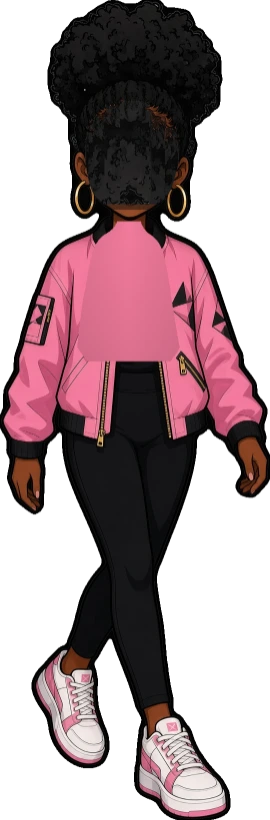
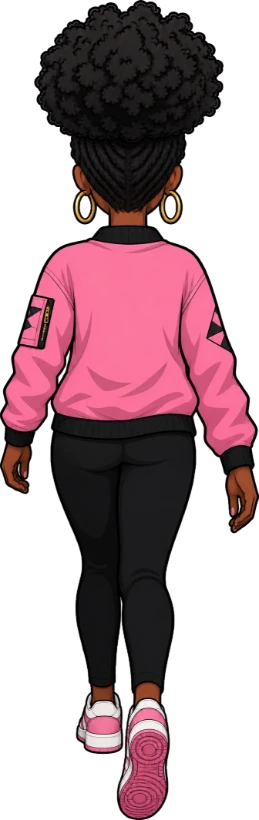
Drawn back views for the street people; Veli and the brothers serve in their windows
- The eight pedestrians have real back views, standing and in stride, in place of the
  ones that had been made from their front drawings. Kart drivers, the players at the
  court and everyone walking away use them.
- Veli is in the window at Veli's Wings and the two brothers at Wingz N Things, each with
  an idle and a serving drawing from in front and behind. They hold an order out when
  someone is waiting at the window and when Benji buys; the brothers take turns.
- The crews stand on the truck floor, so the food they hold out clears the counter.
- Each sponsor truck's menu opens with a picture of the truck at work, and the trucks are
  painted to match it (cream and gold, black and red).
- Smoke test: Veli serves on an order; both crews are in their windows.

Claude-Session: https://claude.ai/code/session_011XGCotqBWtNhVLXTttk4cE

diff --git a/src/game-v2/actors/crowd.ts b/src/game-v2/actors/crowd.ts
@@ -49,6 +49,11 @@ type Member = {
   posted: boolean;
   order: boolean;
   at: number;
+  /** Behind a counter: seconds left holding an order out, seconds until the next one, and who they share the window with. */
+  serving: number;
+  rest: number;
+  team: string;
+  served: number;
 };
 
 const STAY: Record<Act, [number, number]> = {
@@ -103,6 +108,7 @@ export function stepClear(p: { x: number; z: number }, car: Moving, dt: number) 
 export class Troupe {
   private members: Member[] = [];
   private rand: () => number;
+  private clock = 0;
 
   constructor(
     private group: THREE.Group,
@@ -138,8 +144,29 @@ export class Troupe {
   }
 
   /** Someone who stays where they are: a cook, a clerk, a kid on a trampoline. */
-  post(art: CardArt, height: number, stop: Stop) {
-    return this.add(art, height, [stop], stop, true, false);
+  post(art: CardArt, height: number, stop: Stop, team = "") {
+    const card = this.add(art, height, [stop], stop, true, false);
+    this.members[this.members.length - 1]!.team = team;
+    return card;
+  }
+
+  /** One of the crew holds an order out. The ones who share a window take turns. */
+  private serve(m: Member, seconds: number) {
+    m.serving = seconds;
+    m.rest = 5 + this.rand() * 5;
+    m.served = this.clock;
+    if (m.team) for (const o of this.members) if (o !== m && o.team === m.team) o.rest = Math.max(o.rest, seconds + 1.5 + this.rand() * 2);
+  }
+
+  /** Benji ordered at (x, z): whoever at that window served longest ago hands it over. */
+  serveAt(x: number, z: number, seconds = 3.4) {
+    let pick: Member | null = null;
+    for (const m of this.members) {
+      if (m.stop.act !== "serve" || Math.hypot(m.x - x, m.z - z) > 7) continue;
+      if (!pick || m.served < pick.served) pick = m;
+    }
+    if (pick) this.serve(pick, seconds);
+    return !!pick;
   }
 
   private add(art: CardArt, height: number, stops: Stop[], stop: Stop, posted: boolean, order: boolean) {
@@ -148,7 +175,7 @@ export class Troupe {
     stop.taken = true;
     const seed = this.rand() * 10;
     const stay = stop.stay ?? STAY[stop.act];
-    const m: Member = { card, stops, stop, going: false, t: stay[0] + this.rand() * (stay[1] - stay[0]), x: stop.x, z: stop.z, pace: 1.25 + this.rand() * 0.5, seed, hop: 0, checkT: 0, checkX: stop.x, checkZ: stop.z, posted, order, at: Math.max(0, stops.indexOf(stop)) };
+    const m: Member = { card, stops, stop, going: false, t: stay[0] + this.rand() * (stay[1] - stay[0]), x: stop.x, z: stop.z, pace: 1.25 + this.rand() * 0.5, seed, hop: 0, checkT: 0, checkX: stop.x, checkZ: stop.z, posted, order, at: Math.max(0, stops.indexOf(stop)), serving: 0, rest: 2 + this.rand() * 4, team: "", served: -1 };
     card.heading = Math.atan2(stop.fx - stop.x, stop.fz - stop.z);
     this.members.push(m);
     return card;
@@ -187,6 +214,7 @@ export class Troupe {
    * from the camera (outdoors).
    */
   update(dt: number, camera: THREE.Vector3, tint: THREE.Color, player: { x: number; z: number } | null, time: number, beat = -1, reach = 0, car: Moving | null = null) {
+    this.clock = time;
     for (const m of this.members) {
       const c = m.card;
       // A car coming: jump clear of it, then walk back to whatever you were doing.
@@ -284,6 +312,19 @@ export class Troupe {
         else if (act === "cheer" && Math.sin(time * 0.55 + m.seed * 3) > 0.55) lift += Math.abs(Math.sin((time + m.seed) * 8)) * 0.16;
         else if (act === "dance") c.groove = beat >= 0 ? beat + m.seed * 0.05 : time + m.seed;
         if (beat >= 0 && act !== "serve" && act !== "bounce" && act !== "inside") c.groove = beat + m.seed * 0.05;
+        if (act === "serve") {
+          if (m.serving > 0) m.serving -= dt;
+          else {
+            m.rest -= dt;
+            if (m.rest <= 0) {
+              // Somebody waiting at the window gets served; with nobody there, keep an eye out.
+              const waiting = this.members.some((o) => !o.posted && !o.going && o.stop.act !== "inside" && Math.hypot(o.x - m.x, o.z - m.z) < 4.6);
+              if (waiting) this.serve(m, 2.6);
+              else m.rest = 1;
+            }
+          }
+          c.pose = m.serving > 0 ? "serve" : null;
+        }
         if (m.hop > 0) {
           m.hop = Math.max(0, m.hop - dt);
           lift += Math.abs(Math.sin((time + m.seed) * 9)) * 0.24 * Math.min(1, m.hop * 2);

diff --git a/src/game-v2/game.ts b/src/game-v2/game.ts
@@ -4,7 +4,7 @@ import { Troupe, type Act, type Stop } from "./actors/crowd";
 import { People } from "./actors/people";
 import { Traffic } from "./actors/traffic";
 import { CarModel, Driver, STREET } from "./actors/vehicle";
-import { CAST, PEDS, OUTFITS, BENJI_HEIGHT, type CastId, type OutfitId } from "./assets/cast";
+import { CAST, PEDS, OUTFITS, BENJI_HEIGHT, type CastId, type OutfitId, VENDORS } from "./assets/cast";
 import { Sound } from "./core/audio";
 import { Input, type Nav } from "./core/input";
 import type { HoopsKind, Dialogue, HudState, Live, Mode, Overlay, Place, Results, Save, Solid } from "./core/types";
@@ -480,11 +480,17 @@ export class Game {
       const wx = TRUCKS.x + offs[id] + 1.2;
       lot.push(at(wx - 1.2, TRUCKS.z - 3.5, wx, TRUCKS.z, "watch", { stay: [4, 8] }), at(wx + 1.1, TRUCKS.z - 3.8, wx, TRUCKS.z, "watch", { stay: [4, 8] }));
       // Whoever runs the truck is in the window: Veli's, the two brothers, the Catch.
-      const crew = id === "velis" ? [["local", 0]] : id === "brothers" ? [["dj", -0.7], ["baller-1", 0.7]] : [["host", 0]];
-      for (const [name, dx] of crew as [string, number][]) {
-        const v = hand(name);
-        st.post(v.art, v.height, at(wx + dx, TRUCKS.z - 1.5, wx + dx, TRUCKS.z - 8, "serve", { lift: 0.74 }));
-      }
+      // The crew stand on the truck floor, high enough that the order they hold out clears the counter.
+      const crew: [{ art: { front: string }; height: number }, number, number][] =
+        id === "velis"
+          ? [[VENDORS.veli, 0, 1.1]]
+          : id === "brothers"
+            ? [
+                [VENDORS.brotherRed, -0.78, 1.1],
+                [VENDORS.brotherBlue, 0.78, 1.1],
+              ]
+            : [[hand("host"), 0, 0.74]];
+      for (const [v, dx, floor] of crew) st.post(v.art, v.height, at(wx + dx, TRUCKS.z - 1.5, wx + dx, TRUCKS.z - 8, "serve", { lift: floor }), id);
     }
     for (const tx of [-14, -4, 6, 16]) lot.push(at(TRUCKS.x + tx - 1.75, TRUCKS.z - 9.5, TRUCKS.x + tx, TRUCKS.z - 9.5, "eat"), at(TRUCKS.x + tx + 1.75, TRUCKS.z - 9.5, TRUCKS.x + tx, TRUCKS.z - 9.5, "eat"));
     for (const [vx, vz] of [
@@ -1124,6 +1130,9 @@ export class Game {
       plate = `Blackened ${best.name}`;
     } else if (!this.spend(f.cost)) return;
     this.fedUntil = this.time + f.seconds;
+    // Whoever is in the window hands it over.
+    if (this.place === "street") this.street.serveAt(this.pos.x, this.pos.z);
+    else this.troupes[this.place]?.serveAt(this.pos.x, this.pos.z);
     if (f.respect) this.earn(0, f.respect, { quiet: true });
     this.toast(`${plate}. ${f.line}`, 4);
     this.emit("ate");

diff --git a/src/game-v2/assets/cast.ts b/src/game-v2/assets/cast.ts
@@ -85,18 +85,28 @@ export const CAST: Record<"kBlanco" | "courtOg" | "mamaDee" | "uncJ" | "nitro" |
 
 export type CastId = keyof typeof CAST;
 
-/**
- * People on the street were only ever drawn from the front. Their back views are made from those
- * drawings (hair over the face, a plain back to the jacket), so nobody walks away face first.
- */
+/** People on the street: drawn from the front and from behind, standing and in stride. */
 const ped = (name: string, height: number): { art: CardArt; height: number } => ({
   art: {
     front: `/game-v2/characters/pedestrians/${name}.png${V}`,
-    back: `/game-v2/characters/pedestrians/${name}-back.webp`,
-    walk: { front: [`/game-v2/characters/pedestrians/${name}-walk.png${V}`], back: [`/game-v2/characters/pedestrians/${name}-walk-back.webp`] },
+    back: `/game-v2/characters/pedestrians/${name}-back.webp?v=2`,
+    walk: { front: [`/game-v2/characters/pedestrians/${name}-walk.png${V}`], back: [`/game-v2/characters/pedestrians/${name}-walk-back.webp?v=2`] },
   },
   height,
 });
+
+/** Someone who works a window: standing easy, and holding the order out, from in front and from behind. */
+const crew = (id: string, height: number): { art: CardArt; height: number } => {
+  const f = (n: string) => `/game-v2/characters/vendors/${id}/${n}.webp`;
+  return { art: { front: f("front"), back: f("back"), poses: { serve: { front: f("serve-front"), back: f("serve-back") } } }, height };
+};
+
+/** The crews of the two sponsor trucks: Veli at Veli's Wings, the two brothers at Wingz N Things. */
+export const VENDORS = {
+  veli: crew("veli", 1.62),
+  brotherRed: crew("brother-red", 1.56),
+  brotherBlue: crew("brother-blue", 1.7),
+};
 
 export const PEDS = [
   ped("male-01", 1.78),

diff --git a/src/game-v2/play/goods.ts b/src/game-v2/play/goods.ts
@@ -38,7 +38,7 @@ export type TruckId = "catch" | "velis" | "brothers";
  * The trucks on the riverfront lot. Two are real Memphis businesses that sponsor the game and
  * one is the house truck: names, art, menus and handles are theirs and are shown as given.
  */
-export type Truck = { id: TruckId; name: string; tag: string; blurb: string; color: string; body: number; trim: number; logo: string; social: string; video?: { src: string; artist: string; title: string } };
+export type Truck = { id: TruckId; name: string; tag: string; blurb: string; color: string; body: number; trim: number; logo: string; social: string; /** A picture of the truck at work, for the top of its menu. */ scene?: string; video?: { src: string; artist: string; title: string } };
 
 export const FOOD_TRUCKS: Truck[] = [
   {
@@ -58,9 +58,10 @@ export const FOOD_TRUCKS: Truck[] = [
     tag: "VELI'S WINGS",
     blurb: "Gold-rim plate. Lemon pepper or extra hot. Don't play about the sauce.",
     color: "#d4af37",
-    body: 0x14110b,
-    trim: 0xd4af37,
+    body: 0xe9e0cc,
+    trim: 0xc9a227,
     logo: "/game/food/velis-wings.webp",
+    scene: "/game/food/velis-scene.webp",
     social: "@yungveli",
     video: { src: "/game/food/yung-veli.mp4", artist: "Yung Veli", title: "Go Girl" },
   },
@@ -70,9 +71,10 @@ export const FOOD_TRUCKS: Truck[] = [
     tag: "WINGZ N THINGS",
     blurb: "Two kings, one window. Wingz, burger, fries. Crown included.",
     color: "#e11d48",
-    body: 0xf2efe9,
-    trim: 0xe11d48,
+    body: 0x17171b,
+    trim: 0xd1261c,
     logo: "/game/food/brothers-wingz.webp",
+    scene: "/game/food/brothers-scene.webp",
     social: "@brotherswingznthings",
   },
 ];

diff --git a/src/game-v2/ui/Menus.tsx b/src/game-v2/ui/Menus.tsx
@@ -398,6 +398,7 @@ export function FoodMenu({ game, hud }: { game: Game; hud: HudState }) {
   const truck = FOOD_TRUCKS.find((t) => t.id === hud.foodAt) ?? null;
   return (
     <Sheet title={truck ? truck.name : "Fun House Pizza"} sub="A full stomach pays: +10% SackDollars from everything while it lasts." onClose={() => game.close()}>
+      {truck?.scene && <img src={truck.scene} alt={`${truck.name} at the window`} className="mb-3 max-h-48 w-full rounded-xl border border-white/10 object-cover object-[50%_35%] sm:max-h-56" draggable={false} />}
       {truck && (
         <div className="mb-3 flex items-center gap-3 rounded-xl border p-3" style={{ borderColor: `${truck.color}66`, background: `linear-gradient(90deg, ${truck.color}22, transparent)` }}>
           <img src={truck.logo} alt={truck.name} className="h-16 w-24 shrink-0 rounded-lg bg-black/40 object-contain" />
